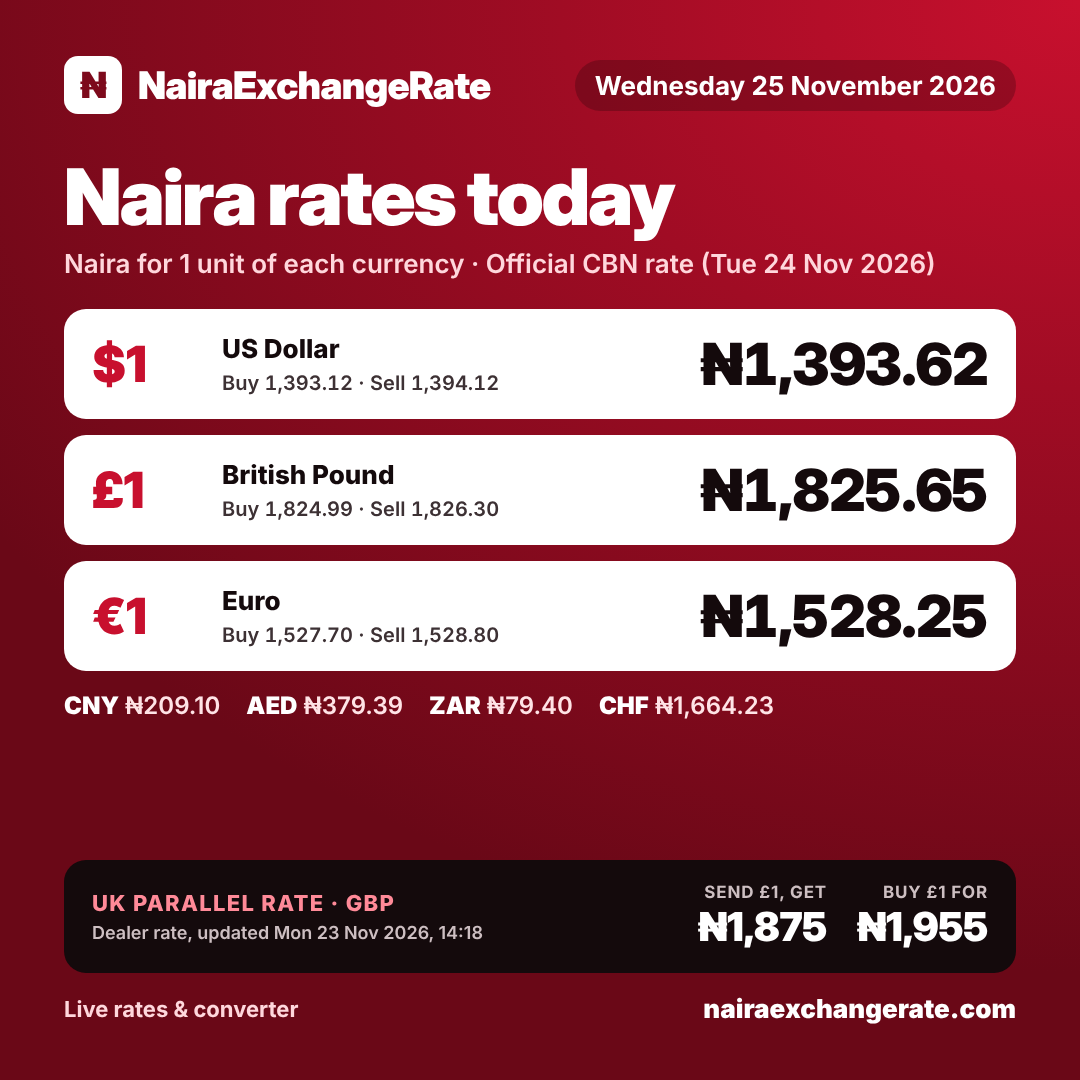
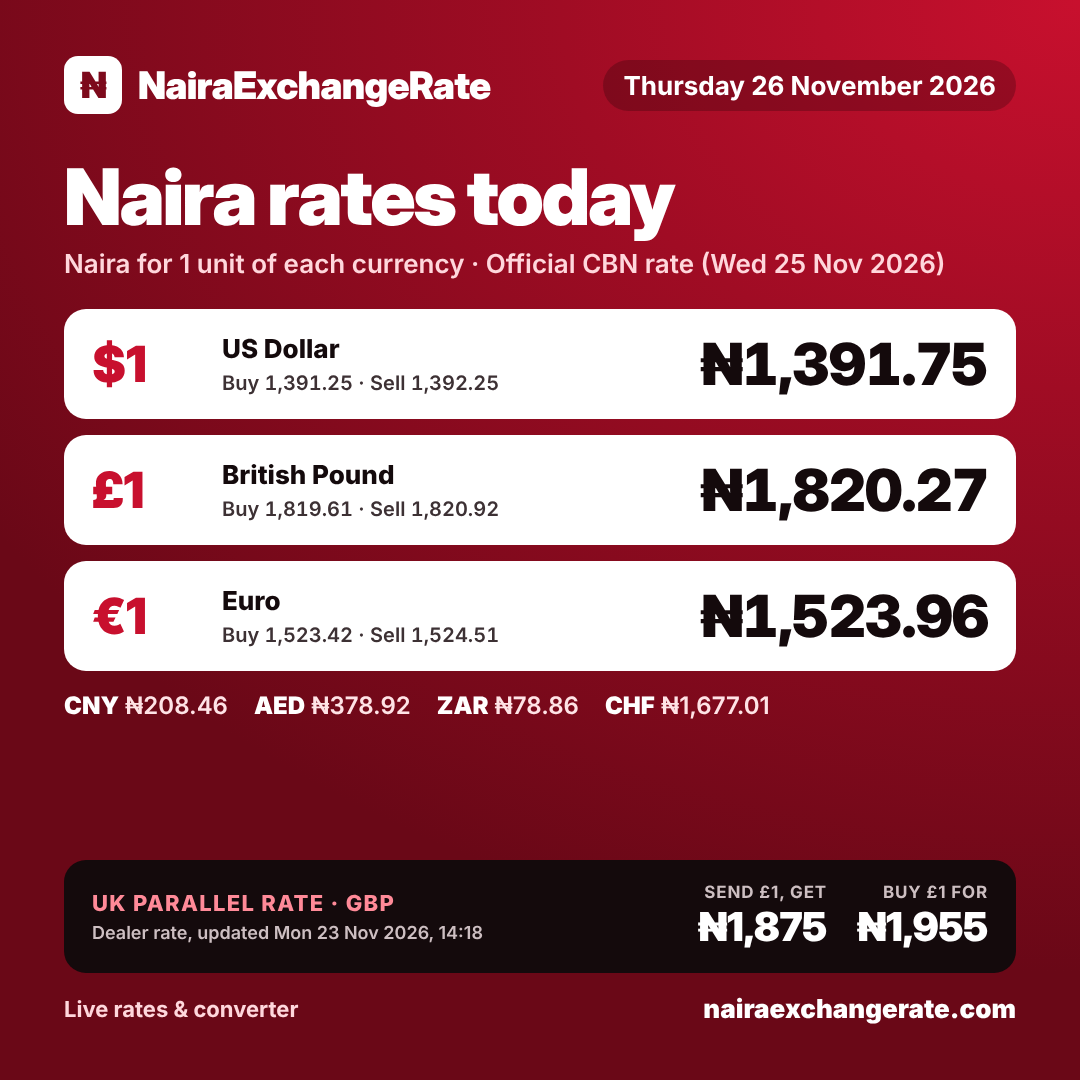
Daily update 2026-11-26
Claude-Session: https://claude.ai/code/session_01NfXuJvZ9coNnrYVsX127GC

diff --git a/index.html b/index.html
@@ -359,61 +359,89 @@ footer .wrap{padding-block:22px 34px;font-size:.84rem;color:var(--muted);display
     }
   ],
   "cbn": {
-    "date": "2026-11-24",
+    "date": "2026-11-25",
     "rates": {
       "xof": {
-        "buy": 2.3039,
-        "middle": 2.3139,
-        "sell": 2.3239
+        "buy": 2.3092,
+        "middle": 2.3192,
+        "sell": 2.3292
       },
       "cny": {
-        "buy": 209.0209,
-        "middle": 209.0959,
-        "sell": 209.1709
+        "buy": 208.3892,
+        "middle": 208.4641,
+        "sell": 208.539
       },
       "eur": {
-        "buy": 1527.6998,
-        "middle": 1528.2481,
-        "sell": 1528.7964
+        "buy": 1523.4167,
+        "middle": 1523.9642,
+        "sell": 1524.5117
       },
       "jpy": {
-        "buy": 8.759,
-        "middle": 8.7622,
-        "sell": 8.7653
+        "buy": 8.7346,
+        "middle": 8.7377,
+        "sell": 8.7409
       },
       "sar": {
-        "buy": 371.2226,
-        "middle": 371.3558,
-        "sell": 371.489
-      },
-      "zar": {
-        "buy": 79.373,
-        "middle": 79.4015,
-        "sell": 79.43
+        "buy": 370.8215,
+        "middle": 370.9548,
+        "sell": 371.088
       },
       "chf": {
-        "buy": 1663.6303,
-        "middle": 1664.2274,
-        "sell": 1664.8245
+        "buy": 1676.4045,
+        "middle": 1677.007,
+        "sell": 1677.6095
       },
       "gbp": {
-        "buy": 1824.9924,
-        "middle": 1825.6474,
-        "sell": 1826.3024
+        "buy": 1819.6134,
+        "middle": 1820.2673,
+        "sell": 1820.9213
       },
       "usd": {
-        "buy": 1393.124,
-        "middle": 1393.624,
-        "sell": 1394.124
+        "buy": 1391.2481,
+        "middle": 1391.7481,
+        "sell": 1392.2481
       },
       "aed": {
-        "buy": 379.2568,
-        "middle": 379.3929,
-        "sell": 379.529
+        "buy": 378.7874,
+        "middle": 378.9235,
+        "sell": 379.0596
+      },
+      "zar": {
+        "buy": 78.8341,
+        "middle": 78.8624,
+        "sell": 78.8907
       }
     }
   },
   "news": [
+    {
+      "source": "BusinessDay",
+      "title": "Naira seen strengthening to N1,360 as CBN lifts parallel dollar market supply",
+      "summary": "The official NFEM rate firmed to N1,392.25/$ on Wednesday after the CBN approved a $1m weekly cash dollar allocation for BDCs, with analysts tipping a move towards N1,360.",
+      "url": "https://businessday.ng/business-economy/article/naira-seen-strengthening-to-n1360-as-cbn-lifts-parallel-dollar-market-supply/",
+      "date": "2026-11-26"
+    },
+    {
+      "source": "BusinessDay",
+      "title": "Foreign reserves cool to early-September levels as FX liquidity tightens",
+      "summary": "Nigeria's external reserves slipped to $54.36bn on November 23, about $900m below their October peak.",
+      "url": "https://businessday.ng/business-economy/article/foreign-reserves-cool-to-early-september-levels-as-fx-liquidity-tightens/",
+      "date": "2026-11-26"
+    },
+    {
+      "source": "BusinessDay",
+      "title": "Nigeria's banks drawn deeper into stablecoin rails as cross-border payments shift",
+      "summary": "New CBN rules effective November 5 require foreign-currency stablecoin issuers serving Nigerians to hold reserves with local banks and use a licensed bank as redemption agent.",
+      "url": "https://businessday.ng/technology/article/nigerias-banks-drawn-deeper-into-stablecoin-rails-as-cross-border-payments-shift",
+      "date": "2026-11-25"
+    },
+    {
+      "source": "Premium Times",
+      "title": "Anambra governor presents N893.4bn 2027 budget",
+      "summary": "Governor Soludo tabled a N893.44bn 2027 budget for Anambra, 16.58% higher than this year's estimate.",
+      "url": "https://premiumtimesng.com/news/top-news/927857-anambra-governor-presents-n893-4bn-2027-budget.html",
+      "date": "2026-11-25"
+    },
     {
       "source": "Premium Times",
       "title": "CBN dismisses concerns over decline in foreign reserves",
@@ -427,34 +455,6 @@ footer .wrap{padding-block:22px 34px;font-size:.84rem;color:var(--muted);display
       "summary": "The MPC held the policy rate at 23% and left the 45% cash reserve ratio for banks unchanged.",
       "url": "https://pmnewsnigeria.com/2026/11/24/cbn-keeps-interest-rate-at-23-as-mpc-maintains-tight-monetary-stance/",
       "date": "2026-11-24"
-    },
-    {
-      "source": "Tribune Online",
-      "title": "NGX sell-off deepens as market sheds N514.91bn in 6th consecutive loss",
-      "summary": "Stocks fell for a sixth straight session, with the All-Share Index down 0.32% to 245,685.87 and N514.91bn wiped off.",
-      "url": "https://tribuneonlineng.com/ngx-sell-off-deepens-as-market-sheds-n514-91bn-in-6th-consecutive-loss/",
-      "date": "2026-11-24"
-    },
-    {
-      "source": "Daily Trust",
-      "title": "Why CBN may retain interest rate at 23% despite falling inflation",
-      "summary": "Analysts expect the CBN to keep its benchmark rate at 23% at this week's MPC meeting even though inflation eased to 14.06% in October.",
-      "url": "https://dailytrust.com/why-cbn-may-retain-interest-rate-at-23-despite-falling-inflation/",
-      "date": "2026-11-24"
-    },
-    {
-      "source": "BusinessDay",
-      "title": "Naira further weakens to N1,394/$ bolstering case for rate hold",
-      "summary": "The naira lost N4.28 on Monday to close at N1,394.01 per dollar at the official market, strengthening calls for the CBN to hold rates.",
-      "url": "https://businessday.ng/business-economy/article/naira-further-weakens-to-n1394-bolstering-case-for-rate-hold/",
-      "date": "2026-11-23"
-    },
-    {
-      "source": "Daily Times Nigeria",
-      "title": "NGX Loses ₦767bn As Bearish Trend Enters Fifth Day",
-      "summary": "Nigerian stocks shed ₦767 billion on Monday, leaving market value at about ₦160 trillion after a fifth straight day of losses.",
-      "url": "https://dailytimesng.com/ngx-loses-%E2%82%A6767bn-as-bearish-trend-enters-fifth-day/",
-      "date": "2026-11-23"
     }
   ],
   "whatsappChannel": "https://whatsapp.com/channel/0029VbEJwXxCnA7nV3kcN73I",
@@ -662,6 +662,18 @@ footer .wrap{padding-block:22px 34px;font-size:.84rem;color:var(--muted);display
       "gbp": 1825.6474,
       "usd": 1393.624,
       "aed": 379.3929
+    },
+    "2026-11-25": {
+      "xof": 2.3192,
+      "cny": 208.4641,
+      "eur": 1523.9642,
+      "jpy": 8.7377,
+      "sar": 370.9548,
+      "chf": 1677.007,
+      "gbp": 1820.2673,
+      "usd": 1391.7481,
+      "aed": 378.9235,
+      "zar": 78.8624
     }
   }
 }
